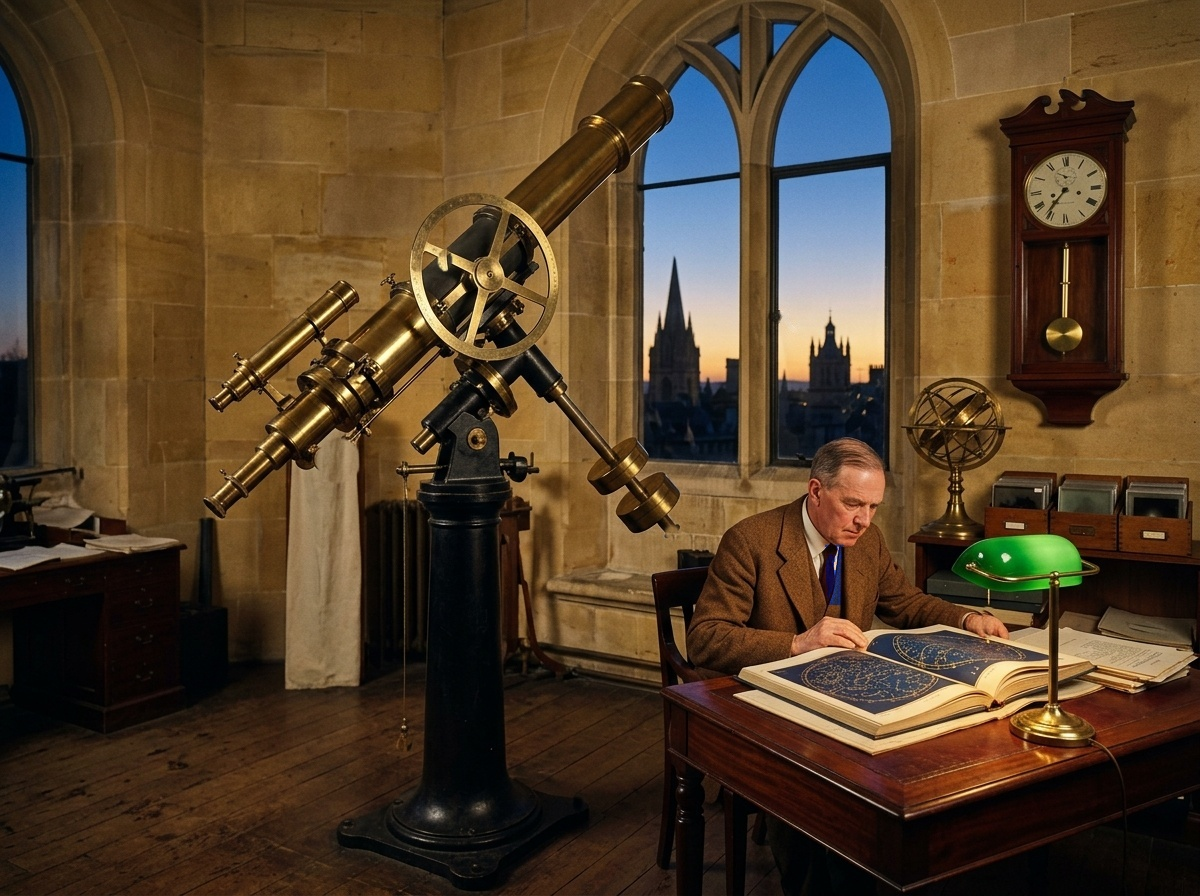
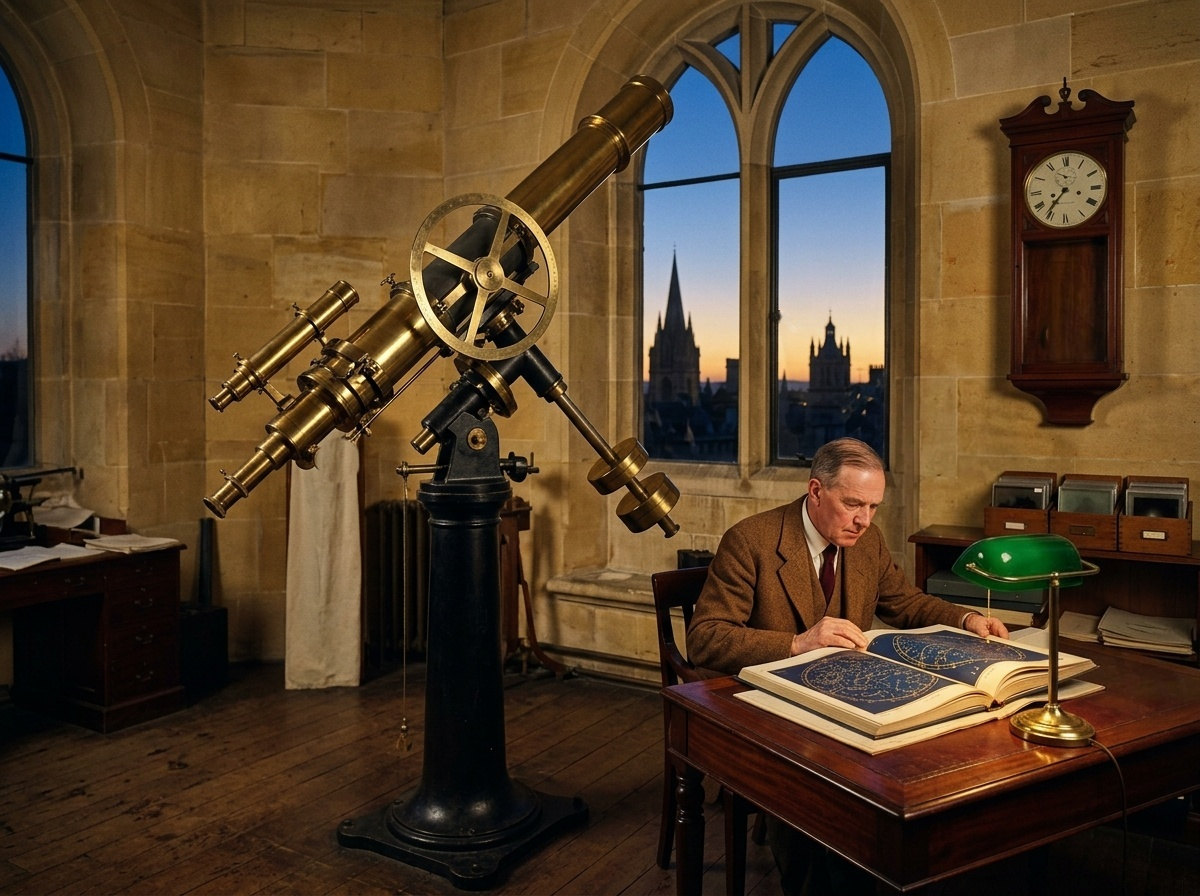
feat(level6): AAA physical sabotage in Radcliffe Observatory, 6/6 verified

diff --git a/src/data/levelRegistry.ts b/src/data/levelRegistry.ts
@@ -167,7 +167,7 @@ export function generateAll120Levels(): Level[] {
       : isLevelFive
       ? '/levels/stage1_lvl5_A.jpg?v=2'
       : isLevelSix
-      ? '/levels/stage1_lvl6_A.jpg'
+      ? '/levels/stage1_lvl6_A.jpg?v=2'
       : isLevelSeven
       ? '/levels/stage1_lvl7_A.jpg'
       : isLevelEight
@@ -450,7 +450,7 @@ export function generateAll120Levels(): Level[] {
       : isLevelFive
       ? '/levels/stage1_lvl5_B.jpg?v=2'
       : isLevelSix
-      ? '/levels/stage1_lvl6_B.jpg'
+      ? '/levels/stage1_lvl6_B.jpg?v=2'
       : isLevelSeven
       ? '/levels/stage1_lvl7_B.jpg'
       : isLevelEight
@@ -1014,16 +1014,60 @@ export function generateAll120Levels(): Level[] {
       ];
     } else if (isLevelSix) {
       diffsForLevel = [
-        { id: `lvl${id}_d1`, x: 28.17, y: 51.34, radius: 3.5, name: "La Manopola di Fuoco del Telescopio in Ottone", loreClue: "La grande rotella zigrinata in ottone con incisione '01' per la messa a fuoco del telescopio principale è assente, mostrando solo la tenda in lino." },
-        { id: `lvl${id}_d2`, x: 24.67, y: 34.26, radius: 3.5, name: "La Vite a Farfalla del Collare del Cercatore", loreClue: "La vite a farfalla in ottone che serra l'anello del cannocchiale cercatore è scomparsa, lasciando la ghiera liscia." },
-        { id: `lvl${id}_d3`, x: 37.08, y: 29.02, radius: 3.5, name: "Il Raggio Radiale del Cerchio Graduato a Ore 12", loreClue: "La razza radiale in ottone a ore 12 che unisce il mozzo alla corona graduata è assente rivelando il corpo nero del tubo." },
-        { id: `lvl${id}_d4`, x: 56.00, y: 59.49, radius: 3.5, name: "Il Cappuccio di Fermo dell'Asse di Declinazione", loreClue: "Il cappuccio sagomato in ottone all'estremità dell'asta dei contrappesi è stato rimosso senza alterare il calcare della parete." },
-        { id: `lvl${id}_d5`, x: 56.50, y: 27.46, radius: 3.5, name: "La Guglia Terminale della Chiesa Gotica", loreClue: "Il pinnacolo acuto e la croce in pietra che sormontano la torre gotica visibile nel cielo crepuscolare sono assenti." },
-        { id: `lvl${id}_d6`, x: 65.67, y: 36.61, radius: 3.5, name: "La Maniglia in Ferro del Montante della Finestra", loreClue: "La maniglia a cricchetto in ferro battuto che chiude l'anta della bifora è stata rimossa dal montante verticale." },
-        { id: `lvl${id}_d7`, x: 69.58, y: 64.17, radius: 3.5, name: "La Cravatta in Seta dell'Astronomo", loreClue: "La cravatta in seta dell'astronomo appare in un elegante blu notte Oxford invece che nel bordeaux originario." },
-        { id: `lvl${id}_d8`, x: 78.75, y: 41.29, radius: 3.5, name: "Il Puntale dell'Asse Polare della Sfera Armillare", loreClue: "Il puntale tornito in ottone che corona l'anello meridiano della sfera armillare celeste è stato rimosso." },
-        { id: `lvl${id}_d9`, x: 82.33, y: 69.20, radius: 3.5, name: "La Catenella a Perline della Lampada Ministeriale", loreClue: "La catenella a perline in ottone che pende sotto il paralume in vetro verde smeraldo è scomparsa da sopra le dita dello studioso." },
-        { id: `lvl${id}_d10`, x: 89.25, y: 10.04, radius: 3.5, name: "Il Pinnacolo a Urna in Mogano della Pendola", loreClue: "L'urna intagliata in legno di mogano sul timpano spezzato dell'orologio regolatore a parete è stata rimossa." },
+        {
+          id: `lvl${id}_d1`,
+          x: 79.71,
+          y: 51.00,
+          radius: 8.5,
+          clueType: 'stolen_relic',
+          name: "La Sfera Armillare in Ottone",
+          loreClue: "Il prezioso strumento astronomico a cerchi concentrici per il calcolo delle coordinate equatoriali è stato asportato dal tavolino."
+        },
+        {
+          id: `lvl${id}_d2`,
+          x: 94.08,
+          y: 73.77,
+          radius: 9.0,
+          clueType: 'stolen_relic',
+          name: "I Registri delle Osservazioni sulla Scrivania",
+          loreClue: "I fascicoli con i calcoli dell'azimut stellare e le tabelle di declinazione sono stati sottratti dalla scrivania."
+        },
+        {
+          id: `lvl${id}_d3`,
+          x: 85.50,
+          y: 62.83,
+          radius: 7.5,
+          clueType: 'sabotage',
+          name: "La Lampada Ministeriale Spenta",
+          loreClue: "La lampada da lavoro con paralume in vetro verde è stata spenta dagli intrusi per occultare la loro fuga nel crepuscolo."
+        },
+        {
+          id: `lvl${id}_d4`,
+          x: 88.71,
+          y: 32.98,
+          radius: 7.5,
+          clueType: 'stolen_relic',
+          name: "Il Pendolo d'Ottone dell'Orologio a Parete",
+          loreClue: "Il disco oscillante in ottone del regolatore a pendolo astronomico è stato smontato per falsare il calcolo del tempo sidereo."
+        },
+        {
+          id: `lvl${id}_d5`,
+          x: 28.00,
+          y: 51.34,
+          radius: 8.0,
+          clueType: 'stolen_relic',
+          name: "La Manopola di Fuoco del Telescopio",
+          loreClue: "La manopola micrometrica in ottone per la messa a fuoco del rifrattore è stata svitata dal tubo ottico."
+        },
+        {
+          id: `lvl${id}_d6`,
+          x: 65.54,
+          y: 35.77,
+          radius: 5.5,
+          clueType: 'sabotage',
+          name: "La Maniglia in Ferro della Bifora Gotica",
+          loreClue: "La maniglia a cricchetto in ferro battuto che bloccava l'anta della finestra è stata scardinata per consentire l'accesso."
+        },
       ];
     } else if (isLevelSeven) {
       diffsForLevel = [

diff --git a/src/data/levelNarratives.ts b/src/data/levelNarratives.ts
@@ -47,10 +47,10 @@ export const LEVEL_NARRATIVES_120: Record<number, LevelStoryData> = {
   },
   6: {
     title: "L'Osservatorio di Radcliffe",
-    subtitle: "Torre delle Stelle di Oxford",
-    prologue: "Orienta il telescopio riflettore per ricalcolare l'azimut stellare riportato nel manoscritto rispetto all'equinozio di primavera.",
-    resolution: "I calcoli corretti confermano una deviazione magnetica di 3 gradi est: il punto di convergenza terrestre è l'ossario di Parigi.",
-    unlockedSecret: "'Gli Inca calcolavano il movimento dell'ammasso delle Pleiadi con una precisione sovrapponibile a quella dei nostri orologi da marina.'",
+    subtitle: "Torre delle Stelle di Oxford • Scena dell'Intrusione",
+    prologue: "La Mano Oscura ha scalato la torre dell'osservatorio all'imbrunire per sabotare la triangolazione celeste della rotta verso Parigi. Gli emissari hanno forzato la bifora gotica, bloccato la pendola e rubato la sfera armillare con i rilievi stellari. Trova le 6 tracce fisiche della profanazione.",
+    resolution: "Hai recuperato i dati di triangolazione: ricalcolando l'azimut stellare con la deviazione magnetica di 3 gradi est, l'allineamento celeste punta dritto verso l'ossario sotterraneo di Parigi!",
+    unlockedSecret: "'Gli astronomi inca allineavano i templi del sole con l'ammasso delle Pleiadi. Chi ha costruito i sotterranei di Parigi ha seguito le medesime coordinate celesti.' - Quaderno d'osservazione dell'astronomo",
   },
   7: {
     title: "Il Salone dei Carteggi di Christ Church",
